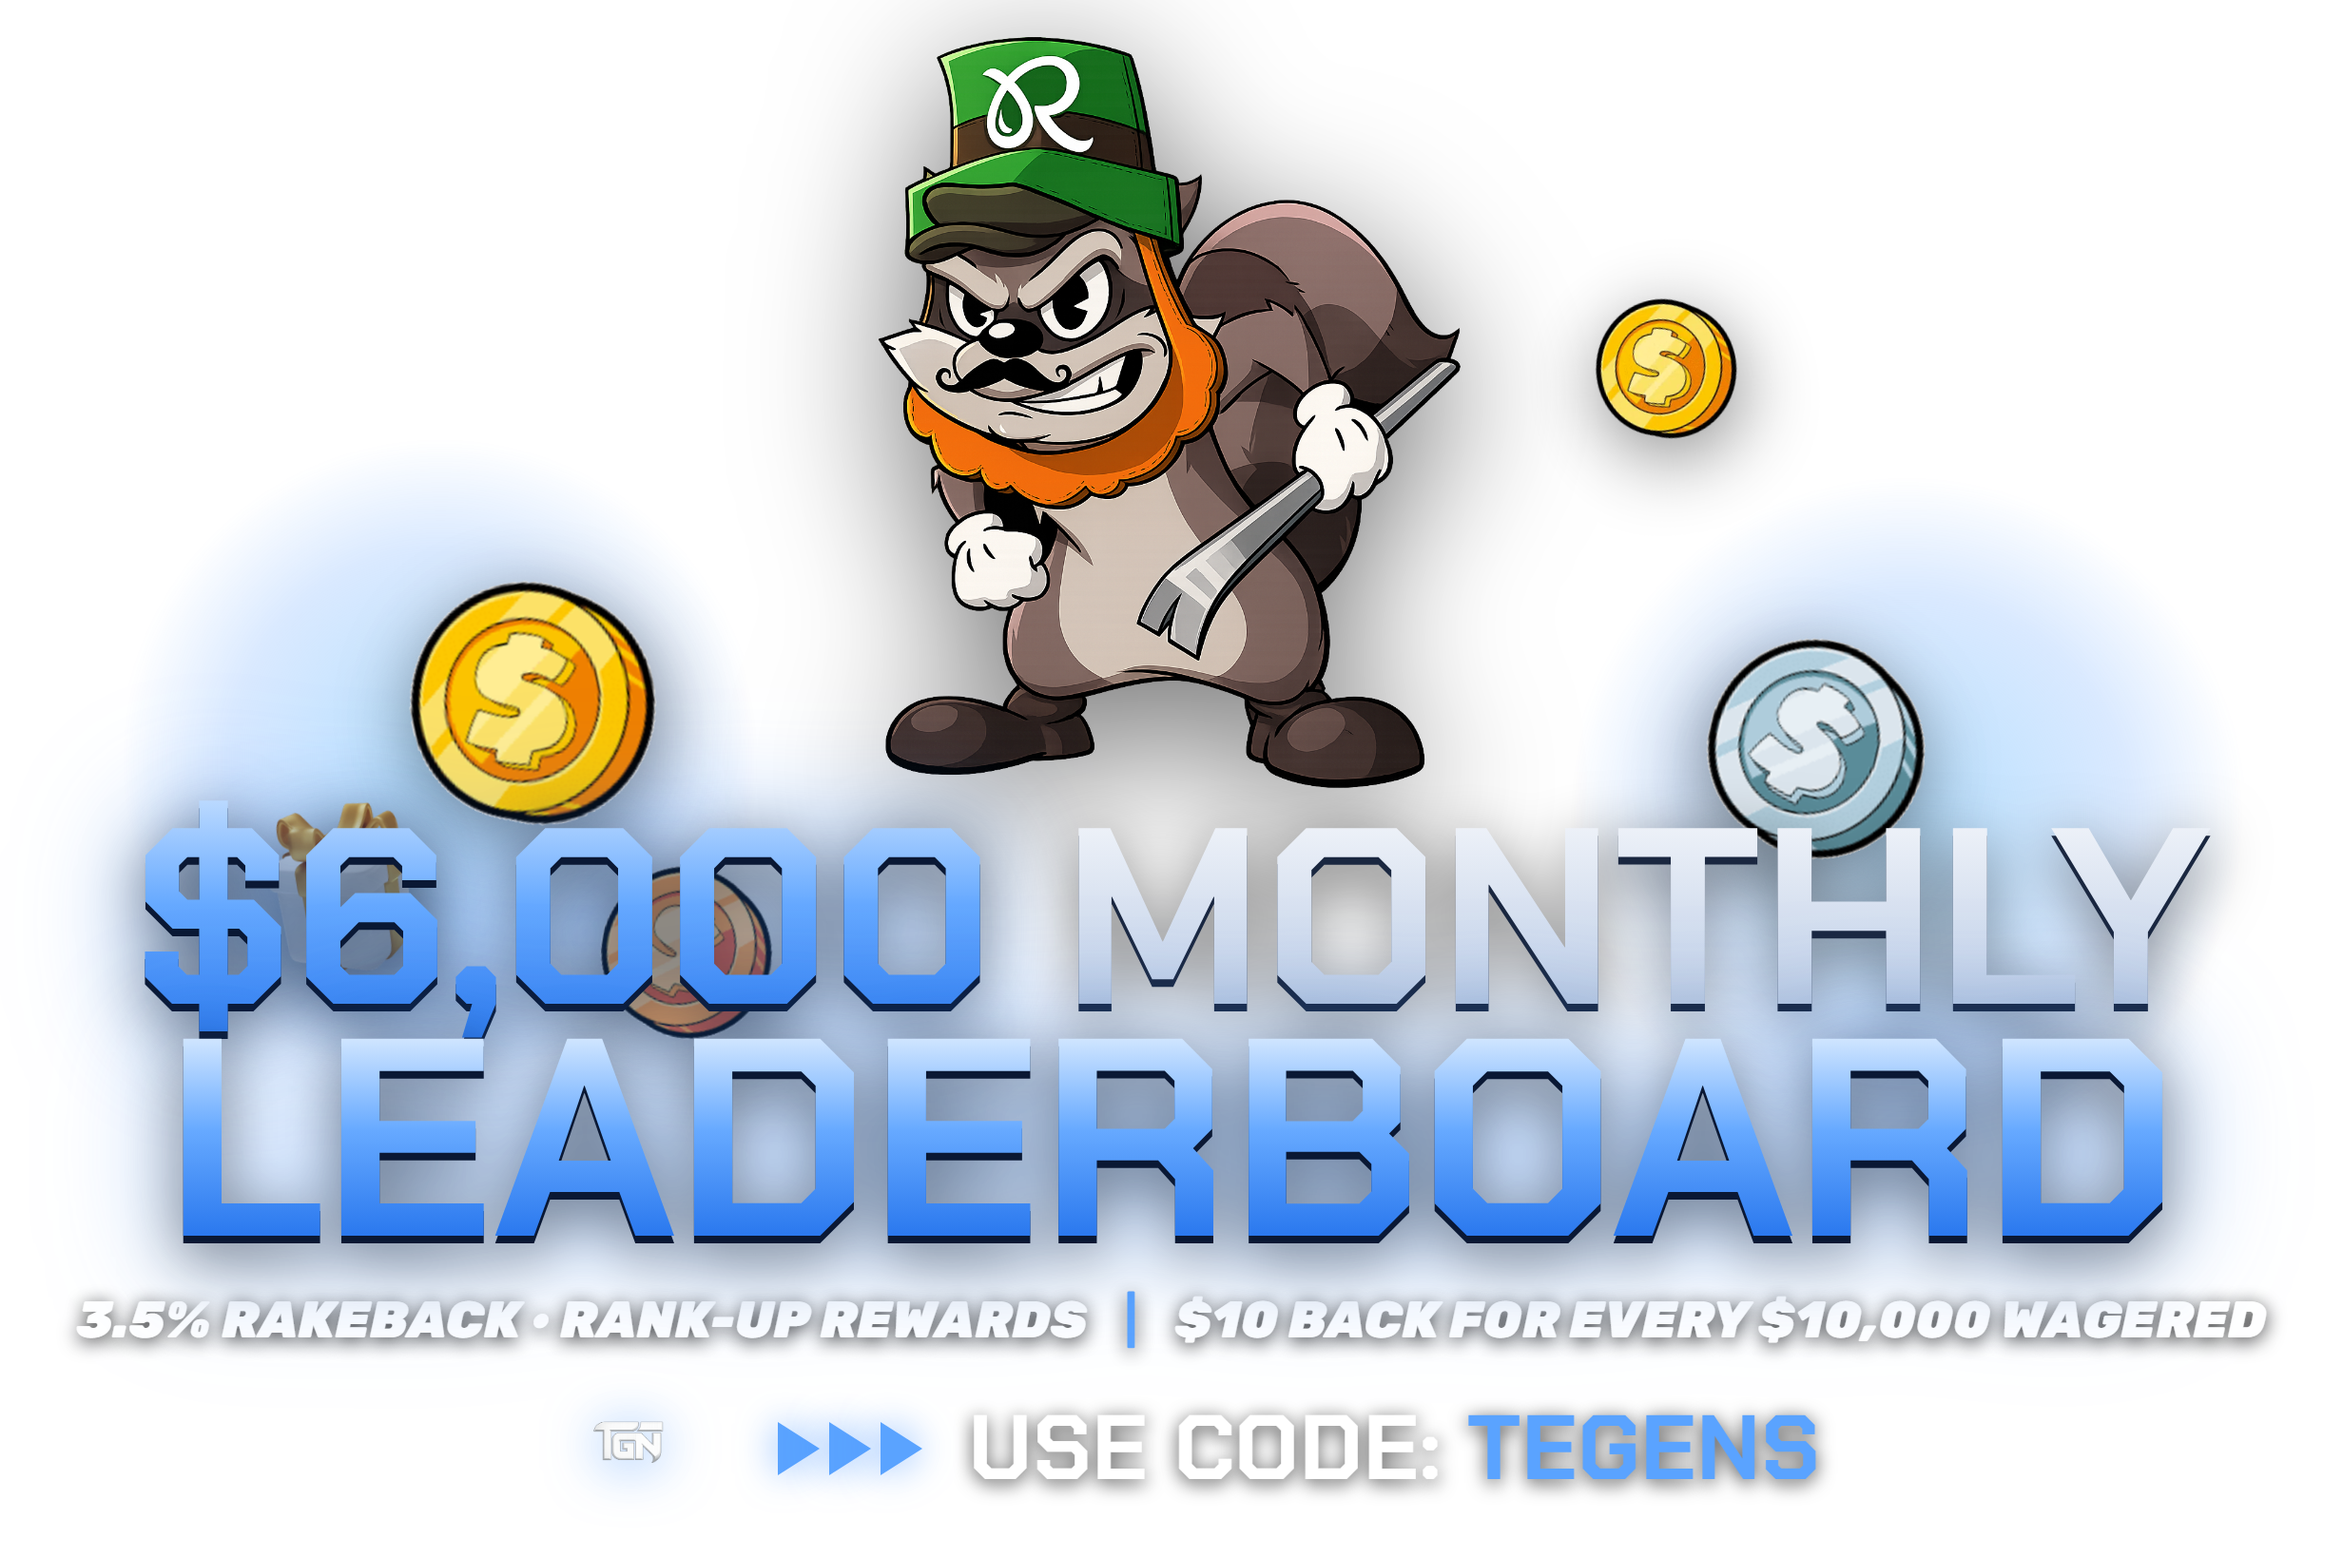
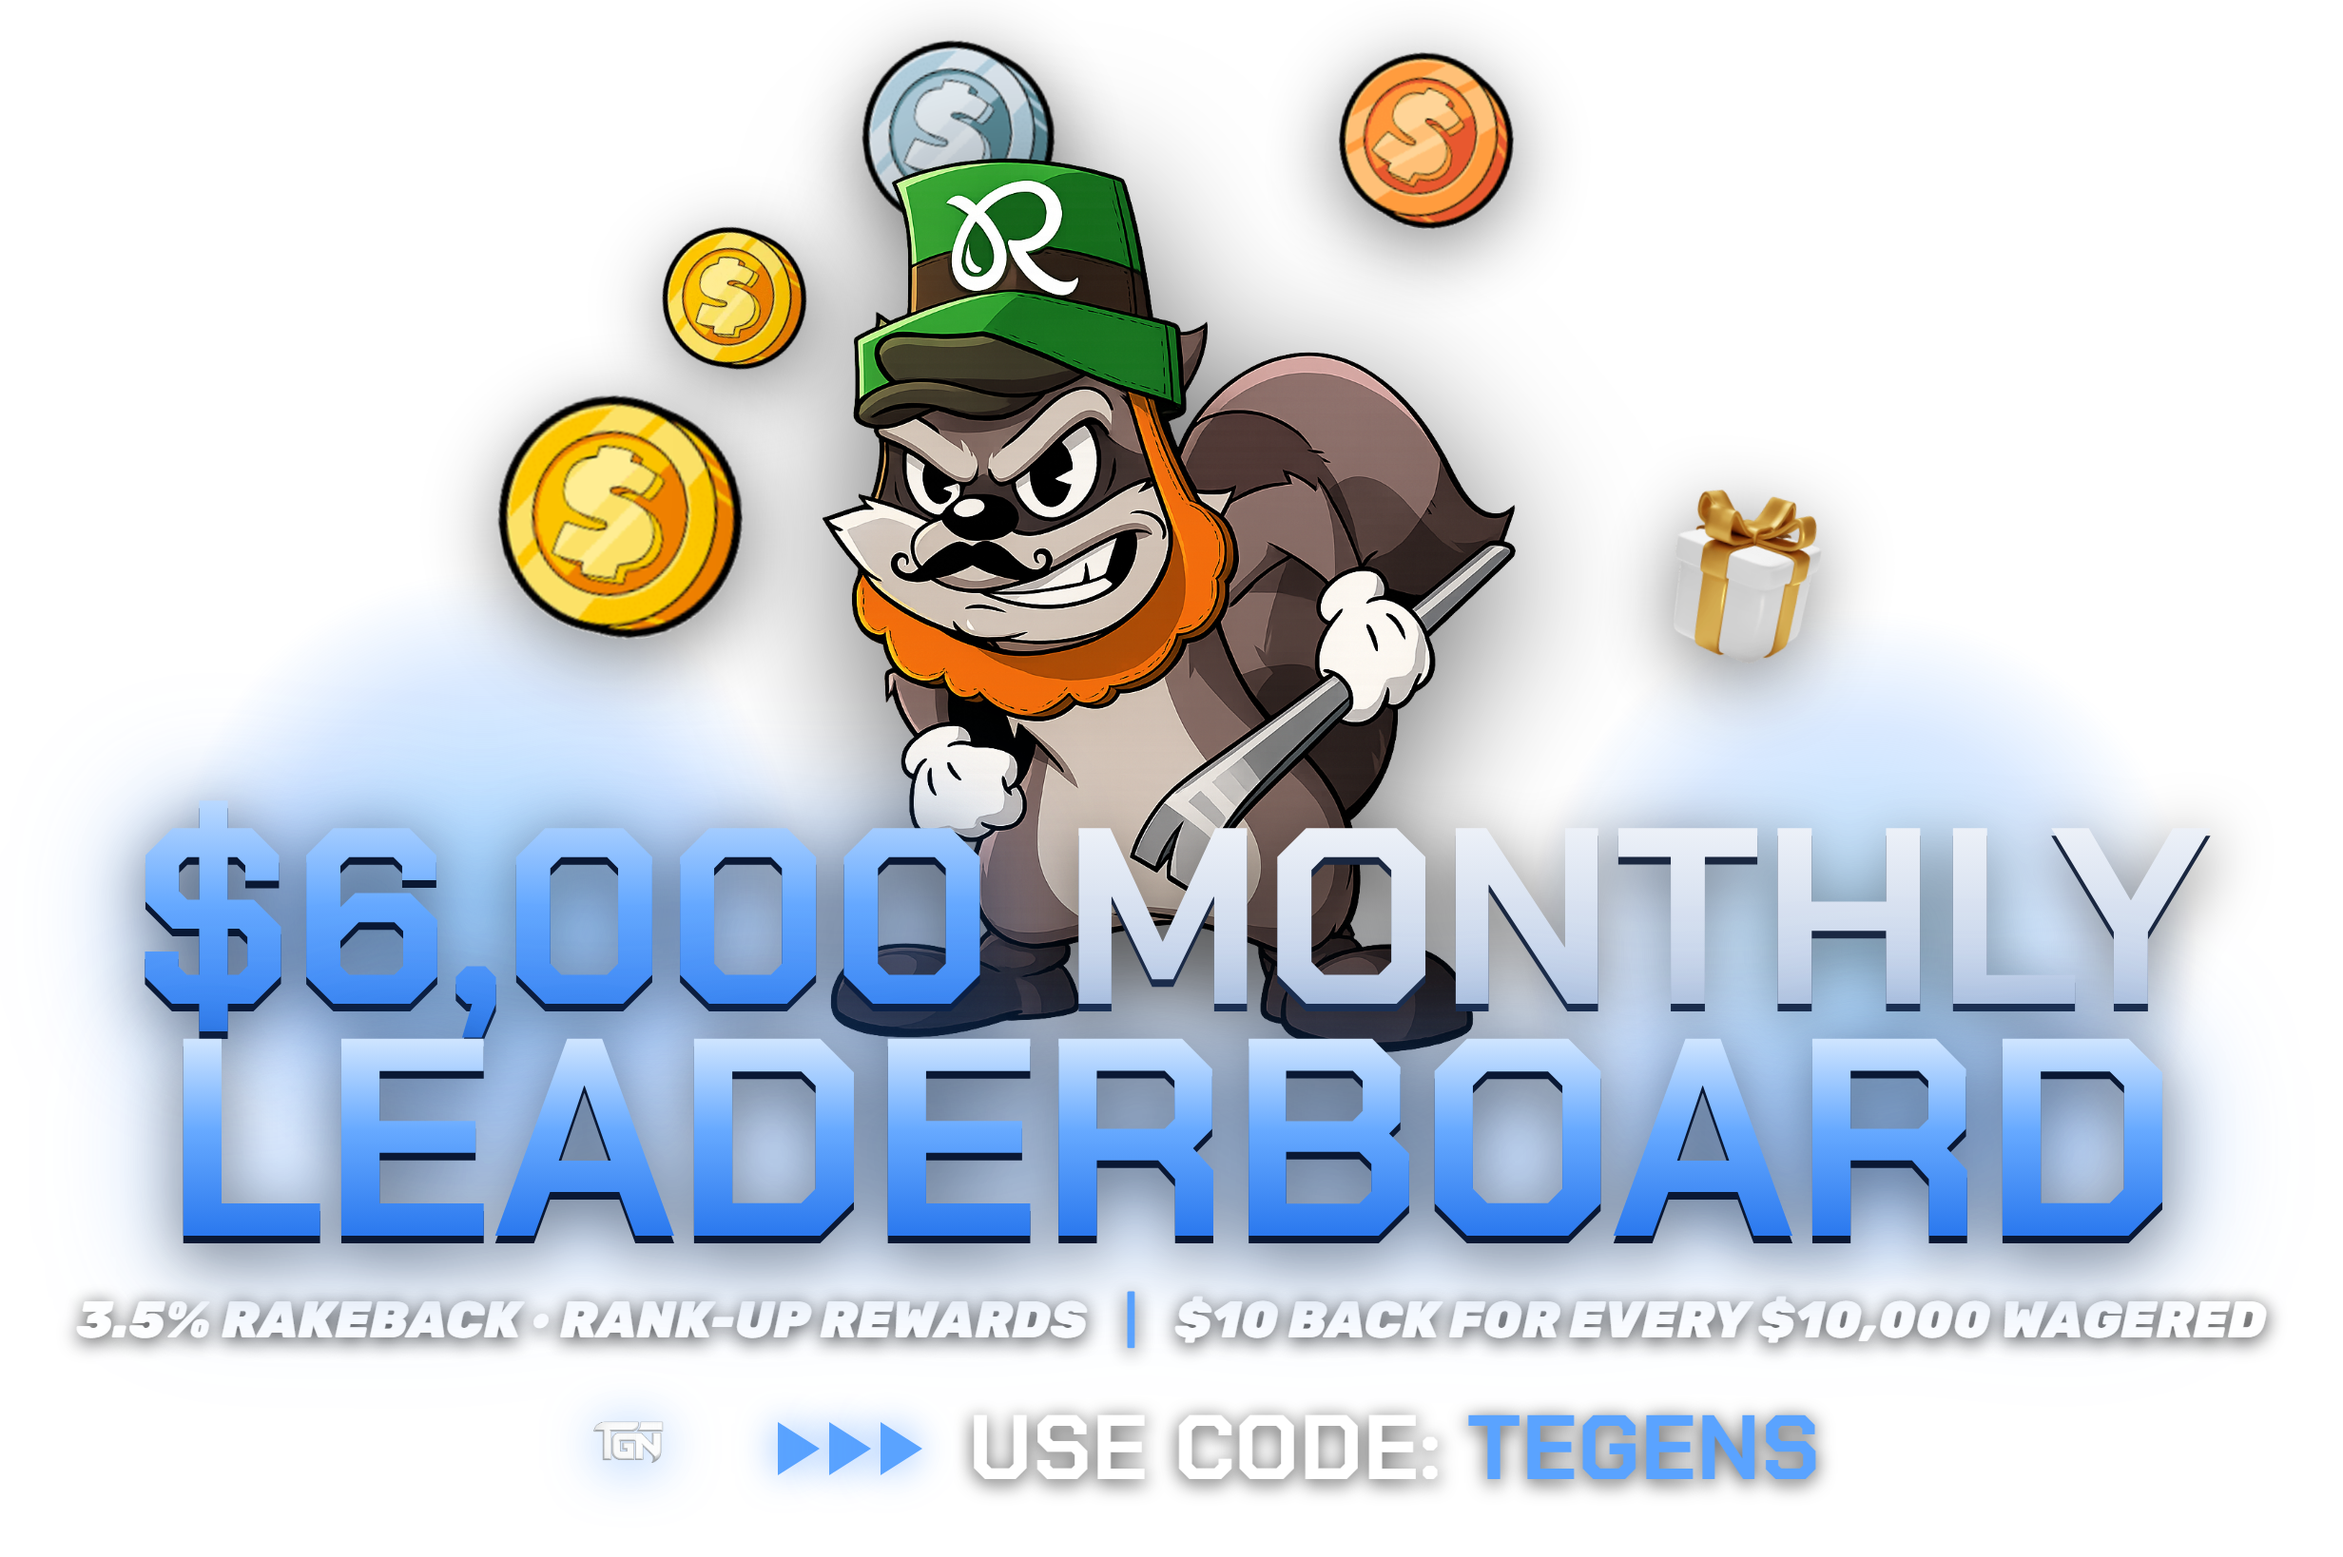
Drop leaderboard to $3,000 pool over 8 places; swap topography background
Prize pool halved from $6,000 to $3,000. Rebalanced to 8 paid places with
round numbers instead of scaling all 10 down (a $40 tenth place reads as
filler); the top three keep the same 33/20/13% shape as before. The table
row count follows config.prizes.length automatically.

Updated the hardcoded $6,000 strings in the SEO meta (index.html, App.jsx
route meta) and both marketing graphics.

Background swapped to 12315.jpg. The new texture is white-on-dark, the
opposite polarity of topography.webp, so the invert(1) that existed to flip
the old one is removed - keeping it would have washed the page pale.
Added contrast() so the screen blend lifts only the contour lines.

diff --git a/index.html b/index.html
@@ -6,9 +6,9 @@
     <meta name="viewport" content="width=device-width, initial-scale=1.0" />
 
     <!-- Primary SEO -->
-    <title>TEGENS.BET — $6,000 Rainbet Leaderboard & Rank-Up Rewards</title>
-    <meta name="description" content="Wager on Rainbet under code TEGENS and climb the $6,000 leaderboard. Rank up for the best Rainbet rewards — rakeback, daily bonuses & $10 back for every $10,000 wagered." />
-    <meta name="keywords" content="Rainbet, Rainbet code TEGENS, Rainbet leaderboard, Rainbet rewards, rank up rewards, $6000 wager leaderboard, rakeback, casino rewards, TEGENS.BET" />
+    <title>TEGENS.BET — $3,000 Rainbet Leaderboard & Rank-Up Rewards</title>
+    <meta name="description" content="Wager on Rainbet under code TEGENS and climb the $3,000 leaderboard. Rank up for the best Rainbet rewards — rakeback, daily bonuses & $10 back for every $10,000 wagered." />
+    <meta name="keywords" content="Rainbet, Rainbet code TEGENS, Rainbet leaderboard, Rainbet rewards, rank up rewards, $3000 wager leaderboard, rakeback, casino rewards, TEGENS.BET" />
     <meta name="robots" content="index, follow" />
     <meta name="theme-color" content="#0a1120" />
     <meta name="author" content="TEGENS" />
@@ -19,14 +19,14 @@
     <meta property="og:type" content="website" />
     <meta property="og:site_name" content="TEGENS.BET" />
     <meta property="og:url" content="https://tegens.bet/" />
-    <meta property="og:title" content="TEGENS.BET — $6,000 Rainbet Leaderboard & Rank-Up Rewards" />
-    <meta property="og:description" content="Wager on Rainbet under code TEGENS, climb the $6,000 leaderboard and rank up for the best Rainbet rewards — rakeback, daily bonuses & $10 back per $10,000 wagered." />
+    <meta property="og:title" content="TEGENS.BET — $3,000 Rainbet Leaderboard & Rank-Up Rewards" />
+    <meta property="og:description" content="Wager on Rainbet under code TEGENS, climb the $3,000 leaderboard and rank up for the best Rainbet rewards — rakeback, daily bonuses & $10 back per $10,000 wagered." />
     <meta property="og:image" content="https://tegens.bet/TGN.webp" />
 
     <!-- Twitter / X -->
     <meta name="twitter:card" content="summary_large_image" />
-    <meta name="twitter:title" content="TEGENS.BET — $6,000 Rainbet Leaderboard & Rank-Up Rewards" />
-    <meta name="twitter:description" content="Wager on Rainbet under code TEGENS, climb the $6,000 leaderboard and rank up for the best Rainbet rewards." />
+    <meta name="twitter:title" content="TEGENS.BET — $3,000 Rainbet Leaderboard & Rank-Up Rewards" />
+    <meta name="twitter:description" content="Wager on Rainbet under code TEGENS, climb the $3,000 leaderboard and rank up for the best Rainbet rewards." />
     <meta name="twitter:image" content="https://tegens.bet/TGN.webp" />
 
     <!-- Structured data -->
@@ -37,7 +37,7 @@
         "name": "TEGENS",
         "alternateName": "TEGENS.BET",
         "url": "https://tegens.bet/",
-        "description": "The official Rainbet leaderboard and rewards hub for code TEGENS — a $6,000 wager leaderboard, rank-up rewards, rakeback and cashback."
+        "description": "The official Rainbet leaderboard and rewards hub for code TEGENS — a $3,000 wager leaderboard, rank-up rewards, rakeback and cashback."
       }
     </script>
 

diff --git a/marketing/tegens-leaderboard-poster.html b/marketing/tegens-leaderboard-poster.html
@@ -18,20 +18,20 @@
   /* blue glow orbs behind the mascot */
   .glow{ position:absolute; z-index:0; border-radius:50%; filter:blur(2px);
     background:radial-gradient(circle, rgba(140,205,255,.62), rgba(47,134,255,.18) 46%, transparent 70%); }
-  .glow.l{ width:340px; height:340px; left:5%; top:230px; }
-  .glow.r{ width:360px; height:360px; right:4%; top:250px; }
+  .glow.l{ width:340px; height:340px; left:7%; top:300px; }
+  .glow.r{ width:360px; height:360px; right:6%; top:320px; }
 
-  /* scattered coin / reward symbols */
+  /* coin / reward symbols arranged in an arc around the mascot */
   .sym{ position:absolute; z-index:1; filter:drop-shadow(0 10px 20px rgba(0,0,0,.45)); }
-  .s-gold{ width:140px; left:210px; top:300px; transform:rotate(-12deg); }
-  .s-silver{ width:124px; right:215px; top:332px; transform:rotate(13deg); }
-  .s-bronze{ width:98px; left:312px; top:452px; transform:rotate(9deg); }
-  .s-coin{ width:88px; right:312px; top:150px; transform:rotate(-12deg); }
-  .s-three{ width:158px; right:118px; top:452px; transform:rotate(10deg); z-index:3; }
-  .s-gift{ width:120px; left:120px; top:404px; transform:rotate(-8deg); z-index:3; }
+  .s-gold{ width:140px; left:256px; top:202px; transform:rotate(-10deg); }
+  .s-coin{ width:90px;  left:341px; top:112px; transform:rotate(-14deg); }
+  .s-silver{ width:110px; left:449px; top:17px; transform:rotate(-8deg); }
+  .s-bronze{ width:100px; left:700px; top:24px; transform:rotate(8deg); }
+  .s-three{ width:150px; left:888px; top:96px; transform:rotate(12deg); }
+  .s-gift{ width:120px; left:858px; top:240px; transform:rotate(10deg); }
 
-  /* Rainbet raccoon mascot */
-  .raccoon{ position:absolute; z-index:2; left:50%; transform:translateX(-50%); top:0; height:470px; width:auto;
+  /* Rainbet raccoon mascot — sits lower, lower body tucks behind the headline */
+  .raccoon{ position:absolute; z-index:2; left:50%; transform:translateX(-50%); top:60px; height:560px; width:auto;
     filter:drop-shadow(0 18px 40px rgba(0,0,0,.55)); }
 
   .content{ position:absolute; z-index:4; left:0; right:0; bottom:26px;
@@ -76,7 +76,7 @@
 
     <div class="content">
       <div class="h1">
-        <span class="row row1"><span class="gradb">$6,000</span> <span class="silv">MONTHLY</span></span>
+        <span class="row row1"><span class="gradb">$3,000</span> <span class="silv">MONTHLY</span></span>
         <span class="row row2 gradb">LEADERBOARD</span>
       </div>
       <div class="sub">3.5% RAKEBACK &middot; RANK-UP REWARDS <span class="bar">|</span> $10 BACK FOR EVERY $10,000 WAGERED</div>

diff --git a/src/data/leaderboard.js b/src/data/leaderboard.js
@@ -14,7 +14,7 @@ export const config = {
   // Used on the legal pages. TODO: replace with your real support email
   // (or leave it — the legal pages also point users to your Discord).
   contactEmail: 'support@tegens.gg',
-  prizePool: 6000,           // total $ pool, shown in the hero
+  prizePool: 3000,           // total $ pool, shown in the hero
   totalGivenAway: 250000,    // running "total given away" counter
 
   // The active leaderboard period. The site queries the Rainbet affiliate API
@@ -26,9 +26,10 @@ export const config = {
   },
 
   // Prize for each rank, 1st → last. Players are ranked by wagered amount and
-  // matched to these in order. Anyone past this list shows no prize.
-  // (This list sums to the prizePool above: 6000.)
-  prizes: [2000, 1200, 800, 600, 450, 350, 250, 150, 120, 80],
+  // matched to these in order. The table only shows as many rows as there are
+  // prizes here, so the length of this list = the number of paid places.
+  // (This list sums to the prizePool above: 3000.)
+  prizes: [1000, 600, 400, 300, 250, 200, 150, 100],
 
   // Decorative profile pictures by rank (1st, 2nd, 3rd). Ranks past this list
   // fall back to the player's initial. Files live in /public.
@@ -44,7 +45,7 @@ export const config = {
   // copy: the top-3 winner cards are pulled live from the same leaderboard feed
   // (and the same offline fallback), so they always match the leaderboard page.
   promo: {
-    amount: 6000,
+    amount: 3000,
     title: 'LEADERBOARD',
     subtitle: 'Climb to the top of the leaderboard & win crazy prizes!',
     cta: 'View Leaderboard',
@@ -71,7 +72,7 @@ export const bonuses = [
   },
   {
     img: '/orb.png',
-    title: '$6,000',          // tip: keep in sync with config.prizePool
+    title: '$3,000',          // tip: keep in sync with config.prizePool
     subtitle: 'Monthly Leaderboard',
     accent: 'gold',
     featured: true,

diff --git a/src/App.jsx b/src/App.jsx
@@ -14,12 +14,12 @@ import ResponsibleGambling from './pages/ResponsibleGambling'
 // and browser tabs. (Social scrapers read the static tags in index.html.)
 const ROUTE_META = {
   '/': {
-    title: 'TEGENS.BET — $6,000 Rainbet Leaderboard & Rank-Up Rewards',
-    description: 'Wager on Rainbet under code TEGENS and climb the $6,000 leaderboard. Rank up for the best Rainbet rewards — rakeback, daily bonuses & $10 back for every $10,000 wagered.',
+    title: 'TEGENS.BET — $3,000 Rainbet Leaderboard & Rank-Up Rewards',
+    description: 'Wager on Rainbet under code TEGENS and climb the $3,000 leaderboard. Rank up for the best Rainbet rewards — rakeback, daily bonuses & $10 back for every $10,000 wagered.',
   },
   '/leaderboard': {
-    title: 'TEGENS.BET — $6,000 Rainbet Wager Leaderboard (Code TEGENS)',
-    description: 'Live $6,000 Rainbet wager leaderboard for code TEGENS. Climb the ranks and win your share of the prize pool.',
+    title: 'TEGENS.BET — $3,000 Rainbet Wager Leaderboard (Code TEGENS)',
+    description: 'Live $3,000 Rainbet wager leaderboard for code TEGENS. Climb the ranks and win your share of the prize pool.',
   },
   '/rewards': {
     title: 'TEGENS.BET — Rank-Up Rewards & Best Rainbet Bonuses',

diff --git a/src/index.css b/src/index.css
@@ -82,10 +82,13 @@ body::after {
   position: fixed;
   inset: 0;
   z-index: -2;
-  background: url('/topography.webp') center / cover no-repeat;
-  filter: invert(1);
+  background: url('/12315.jpg') center / cover no-repeat;
+  /* This texture is already light-on-dark, so it needs no invert (the previous
+     one was dark-on-white). contrast() crushes the grey field toward black so
+     screen only lifts the contour lines, not the whole page. */
+  filter: contrast(1.5);
   mix-blend-mode: screen;
-  opacity: 0.14;
+  opacity: 0.10;
   pointer-events: none;
 }
 

diff --git a/marketing/tegens-leaderboard-text.html b/marketing/tegens-leaderboard-text.html
@@ -39,7 +39,7 @@
 <body>
   <div class="stage" data-screen-label="Leaderboard Text">
     <div class="h1">
-      <span class="row row1"><span class="gradb">$6,000</span> <span class="silv">MONTHLY</span></span>
+      <span class="row row1"><span class="gradb">$3,000</span> <span class="silv">MONTHLY</span></span>
       <span class="row row2 gradb">LEADERBOARD</span>
     </div>
     <div class="sub">3.5% RAKEBACK &middot; RANK-UP REWARDS <span class="bar">|</span> 100% AFFILIATE MONEY BACK</div>
